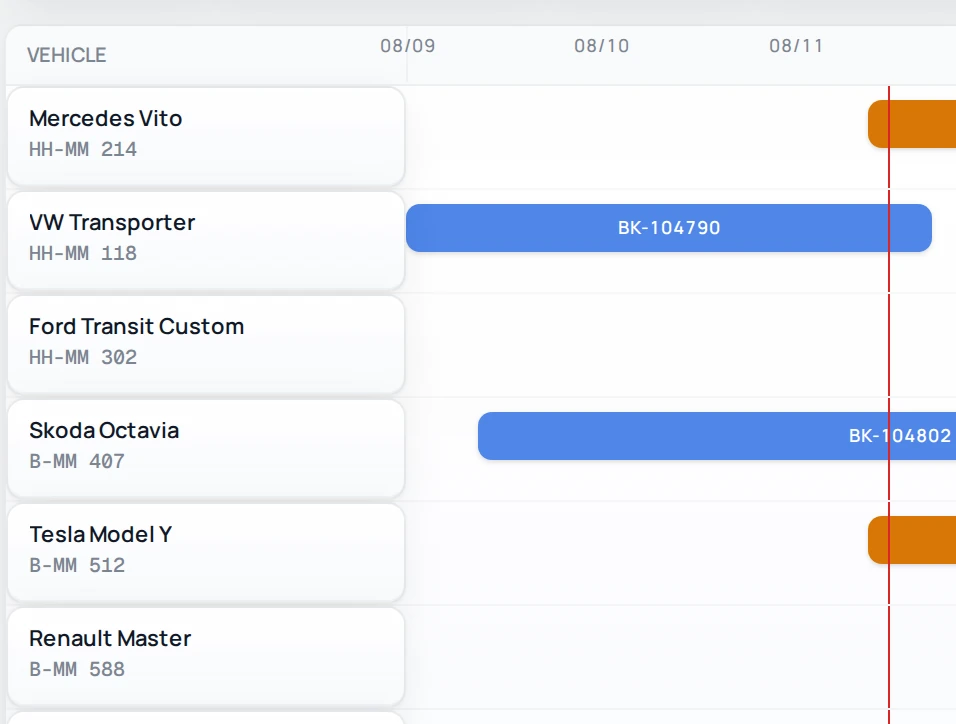
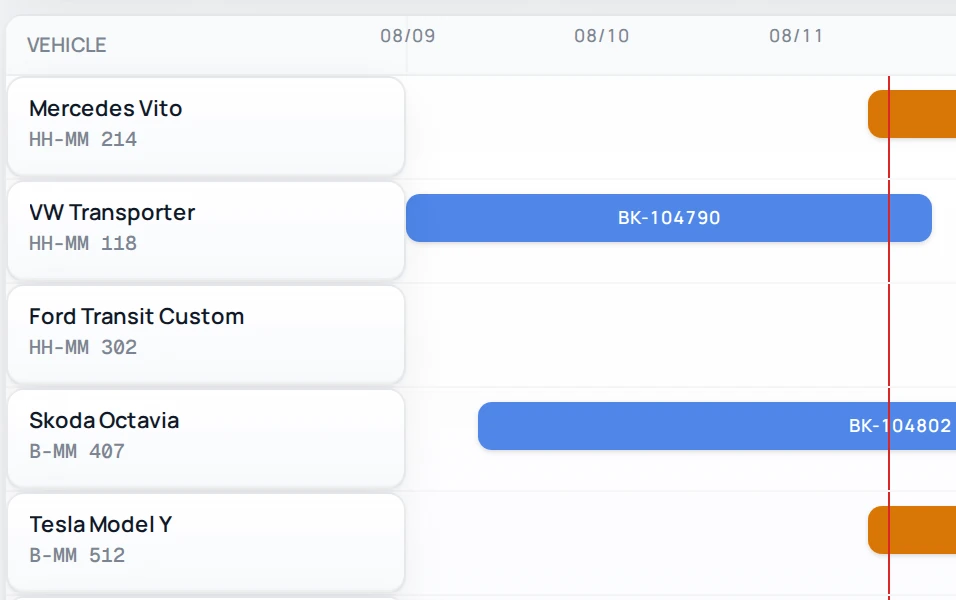
fix(landing): tighten the plan crop and keep the hub a grid on phones
The plan crop ended mid-row and included two vehicles without bookings, so it
read as a half-empty schedule. It now ends on a row boundary and covers the five
rows that carry bookings.

The integration hub collapsed to one column below 760px, which turned six short
tiles into the tallest section on the page. Two columns hold down to 360px, and
the columns now stretch to equal rows so the tiles line up across the gap instead
of drifting apart as their copy wraps.

diff --git a/landingpage/src/styles.css b/landingpage/src/styles.css
@@ -1259,11 +1259,17 @@ svg {
   }
 
   /* Below the desktop breakpoint the diagram becomes two plain tile columns:
-     the centre node and its connectors only read as a hub at full width. */
+     the centre node and its connectors only read as a hub at full width.
+     The columns stretch and share equal rows so the two sets of tiles line up
+     across the gap instead of drifting out of step as their copy wraps. */
   .hub__diagram {
     --hub-gap: 16px;
     grid-template-columns: repeat(2, minmax(0, 1fr));
-    align-items: start;
+    align-items: stretch;
+  }
+
+  .hub__column {
+    grid-auto-rows: 1fr;
   }
 
   .hub__tile::after,
@@ -1301,10 +1307,6 @@ svg {
     padding: 4px 22px 16px;
   }
 
-  .hub__diagram {
-    grid-template-columns: minmax(0, 1fr);
-  }
-
   .sitefooter__inner {
     padding-block: 44px 32px;
   }
@@ -1315,6 +1317,15 @@ svg {
      section, so the masthead keeps only the wordmark and the menu toggle. */
   .masthead__actions .action--primary {
     display: none;
+  }
+}
+
+@media (max-width: 359px) {
+  /* The hub keeps two tile columns on a normal phone, where a single column
+     turns six short tiles into the longest section on the page. Below this the
+     columns get too narrow for the tile copy, so they stack. */
+  .hub__diagram {
+    grid-template-columns: minmax(0, 1fr);
   }
 }
 
